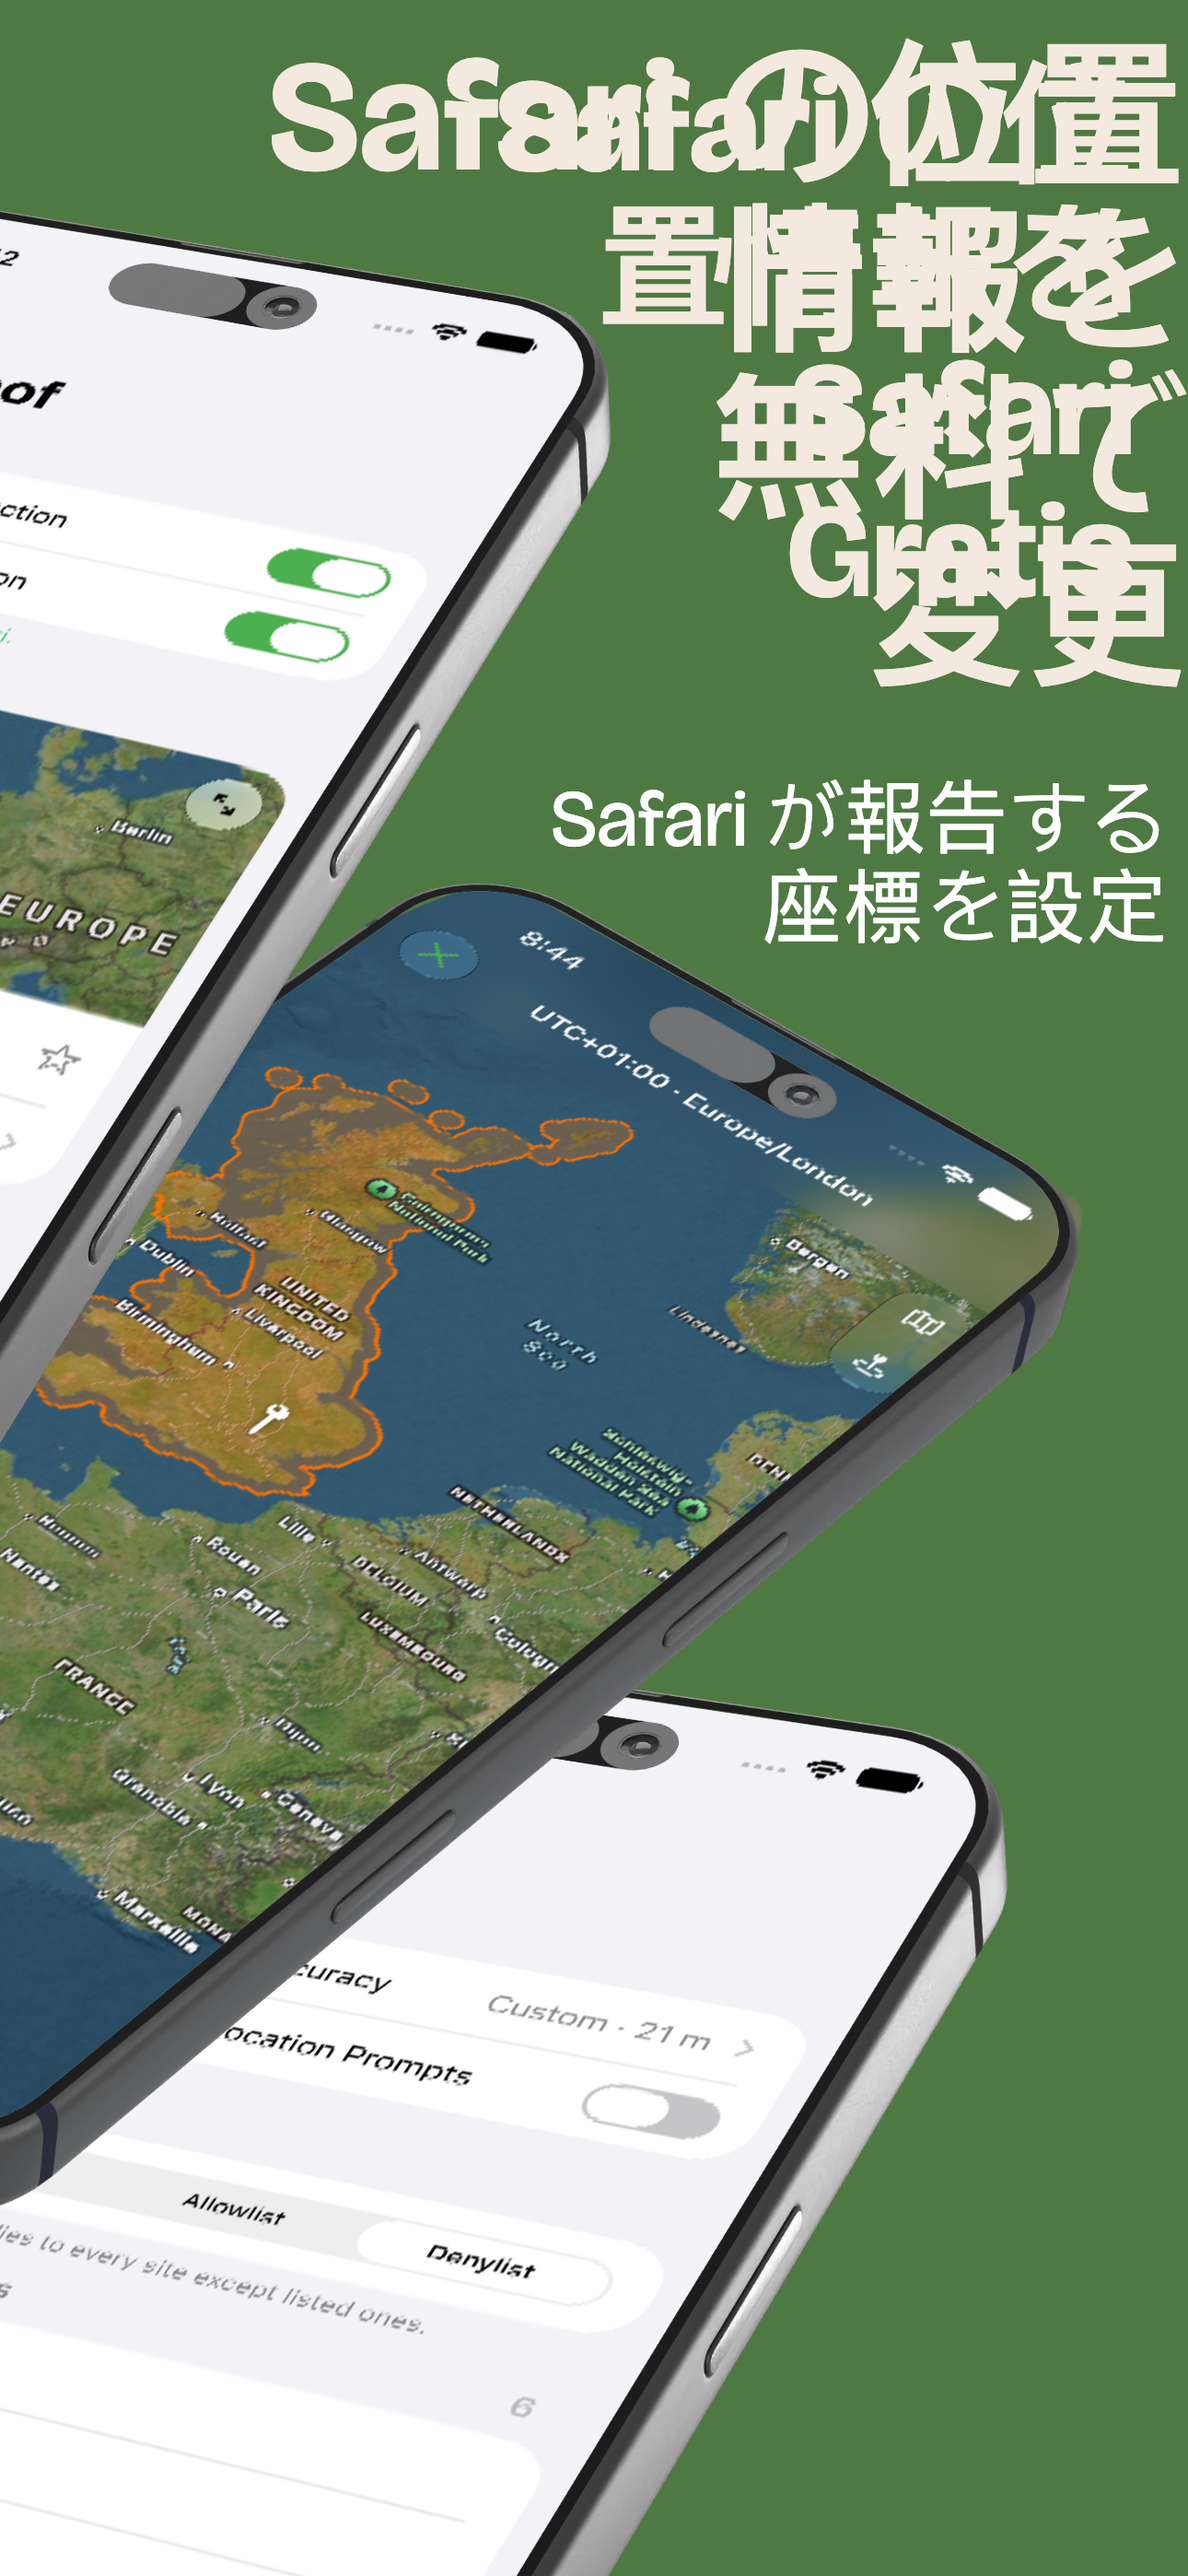
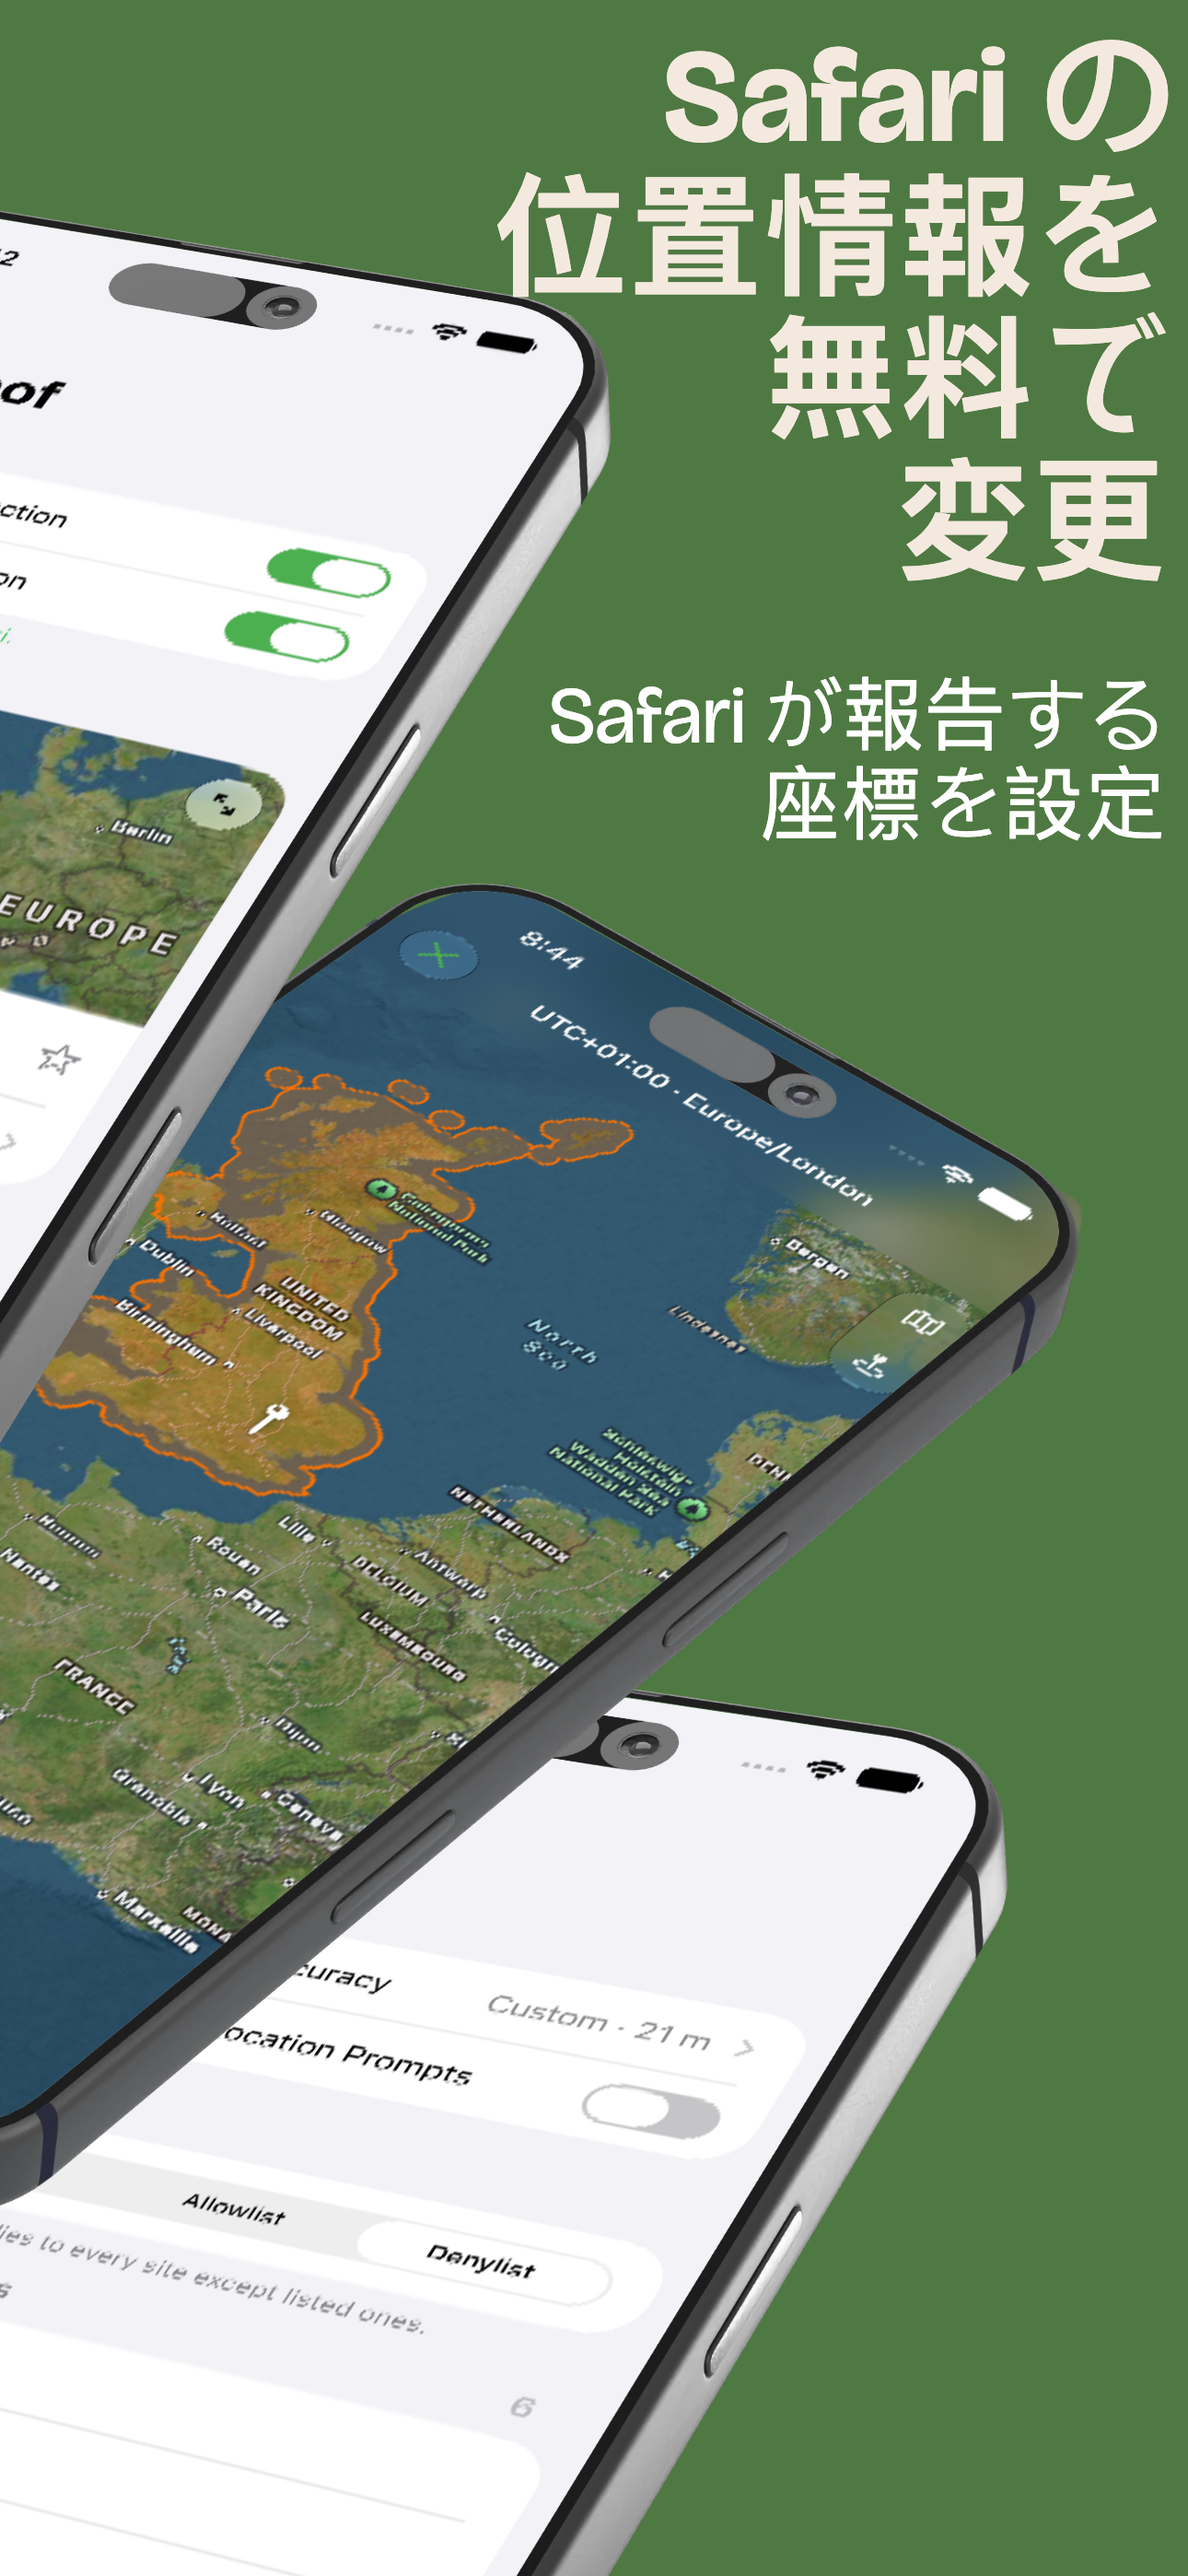
update image

Changed region(s): [[0.2171, 0.0, 1.0, 0.3734]]

diff --git a/assets/store-listings/appstore/screenshot-copy.md b/assets/store-listings/appstore/screenshot-copy.md
@@ -42,7 +42,7 @@ remembering when a line feels tight.
 | es-ES   | Cambia la ubicación / de Safari gratis  | Elige las coordenadas / que informa Safari        |
 | fr-FR   | Position Safari / gratuite              | Définissez les coordonnées / que Safari annonce   |
 | id      | Ubah Lokasi / Safari Gratis             | Atur Koordinat / yang Dilaporkan Safari           |
-| ja      | Safari の位置情報を / 無料で変更        | Safari が報告する座標を設定                       |
+| ja      | Safari の / 位置情報を / 無料で / 変更  | Safari が報告する座標を設定                       |
 | nl-NL   | Safari-locatie / gratis wijzigen        | Stel in welke coördinaten / Safari doorgeeft      |
 | pt-BR   | Mude a localização / do Safari de graça | Defina as coordenadas / que o Safari informa      |
 | ru      | Бесплатная смена / локации в Safari     | Задайте координаты, / которые сообщает Safari     |
